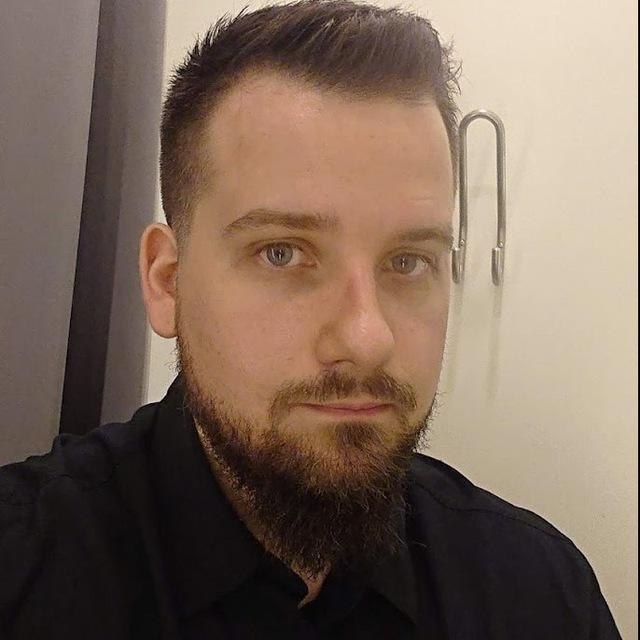
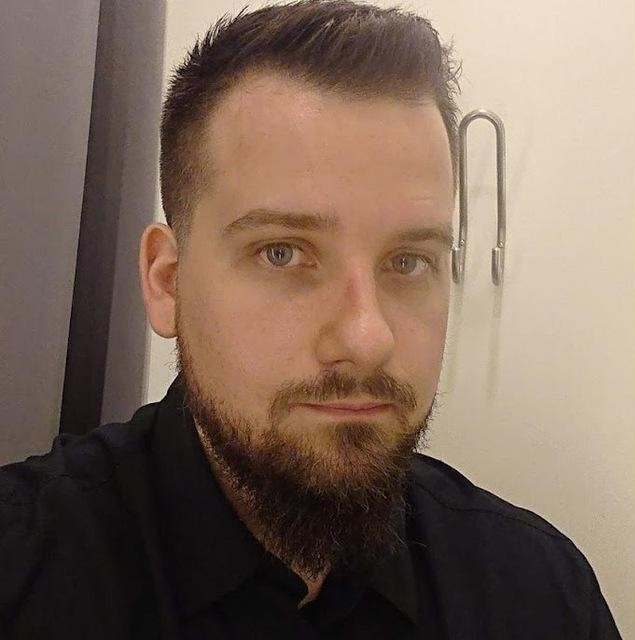
feat: contact modal & fixed typos

diff --git a/components/main-page-components/AboutMe.vue b/components/main-page-components/AboutMe.vue
@@ -6,12 +6,12 @@
       <div class="md:flex justify-center items-center mx-auto gap-16">
         <div class="col-span-1">
           <img
-            class="w-64 mx-auto md:mb-0 mb-4"
+            class="w-64 mx-auto md:mb-0 mb-4 rounded"
             src="~/assets/img/profile.jpg"
             alt="Profile Picture" />
         </div>
         <div class="text-xl ml-6 md:w-4/12 md:mb-0 mb-4">
-I'm a fresh new freelancer &amp; digital nomad from Austria having just started in 2022. Still I have years (5+) of work experience in the industry as a Web Developer, &amp; Teamleader and Project Manager in the industry.</div>
+I'm a fresh new freelancer &amp; digital nomad from Austria having just started in 2022. Still I have years (5+) of work experience in the industry as a Web Developer, Teamleader &amp; Project Manager in the industry.</div>
       </div>
     </div>
   </div>

diff --git a/components/ContactModal.vue b/components/ContactModal.vue
@@ -1,0 +1,27 @@
+<template>
+  <div ref="modalBackground" @click="checkClose" class="fixed bg-secondary bg-opacity-70 top-0 bottom-0 left-0 right-0 z-40 flex justify-center items-center">
+    <div @click="showCopyMail" class="bg-accent-1 text-primary opacity-100 p-16">
+      Click here to send me an E-Mail!<br />
+      <span v-if="email">My email is: <a :href="`mailto:${email}`">{{ email }}</a></span>
+    </div>
+  </div>
+</template>
+
+<script lang="ts">
+import { Component, Vue } from 'nuxt-property-decorator'
+
+@Component({})
+export default class ContactModal extends Vue {
+  email = ''
+  async showCopyMail () {
+    await navigator.clipboard.writeText("contact@wug.ge");
+    this.email = "contact@wug.ge"
+  }
+
+  checkClose(e: MouseEvent) {
+    if (e.target === this.$refs.modalBackground) {
+      this.$emit('close')
+    }
+  }
+}
+</script>

diff --git a/components/main-page-components/Navigation.vue b/components/main-page-components/Navigation.vue
@@ -61,6 +61,7 @@
         <div>
           <a
             href="#"
+            @click="showContactModal = true"
             class="
               inline-block
               text-sm
@@ -77,6 +78,7 @@
             "
             >Contact</a
           >
+          <contact-modal v-if="showContactModal" @close="showContactModal = false" />
         </div>
       </div>
     </nav>
@@ -87,14 +89,19 @@ import { Component, Vue } from 'nuxt-property-decorator'
 
 import Logo from '@/components/Logo.vue'
 
+import ContactModal from '@/components/ContactModal.vue'
+
 @Component({
   components: {
+    ContactModal,
     Logo
   }
 })
 export default class Navigation extends Vue {
   showResponsiveMenu = false
   isMedium = true
+
+  showContactModal = false
 
   mounted () {
     if (process.client) {

diff --git a/components/projects/MyProjects.vue b/components/projects/MyProjects.vue
@@ -4,7 +4,7 @@
       <h1 class="md:text-5xl text-3xl">My Projects</h1>
       <br />
       <div class="container grid grid-cols-1 sm:grid-cols-2 lg:grid-cols-4 gap-6">
-        <card class="relative text-center">
+        <card class="relative text-center rounded">
           <img class="w-32 mx-auto bg-primary p-2 rounded" src="@/assets/img/website.png" alt="Picture of website" />
           <div class="text p-6">
             This website is open source! It's build using Nuxt.js, TypeScript, Tailwind CSS and Docker! Go check it out on <a href="https://github.com/wug-ge/wug.ge">Github!</a>

diff --git a/components/main-page-components/TechStack.vue b/components/main-page-components/TechStack.vue
@@ -4,7 +4,7 @@
       <h1 class="md:text-5xl text-3xl">My Tech Stack</h1>
       <br />
       <div class="container grid grid-cols-1 sm:grid-cols-2 lg:grid-cols-4 gap-6">
-        <card v-for="(tech, i) in techStack" :key="i" class="relative text-center">
+        <card v-for="(tech, i) in techStack" :key="i" class="relative text-center rounded">
           <img class="w-20 mx-auto bg-primary p-4 rounded" :src="tech.logo" :alt="tech.name" />
           <div class="text p-6">
             {{ tech.description }}

diff --git a/components/main-page-components/PageFooter.vue b/components/main-page-components/PageFooter.vue
@@ -8,7 +8,7 @@
       wug.ge<br>
       <button @click="emailClick">{{email ? '' : 'Show' }} E-Mail</button>{{email ? ': ' + email : ''}}
     </div>
-    <div class="social-media text-primary bg-primary absolute right-0 p-10">
+    <div class="social-media rounded text-primary bg-primary absolute right-0 p-10">
       <a class="w-10" href="https://github.com/wug-ge">
         <img class="w-10" :src="require('@/assets/logos/github.svg')" alt="Github" /> 
       </a>

diff --git a/components/main-page-components/PageHeader.vue b/components/main-page-components/PageHeader.vue
@@ -17,7 +17,7 @@ export default class PageHeader extends Vue {
 <style lang="scss" scoped>
 header {
   position: relative;
-  z-index: 100;
+  z-index: 30;
   h1 {
     position: relative;
     z-index: 75; 
